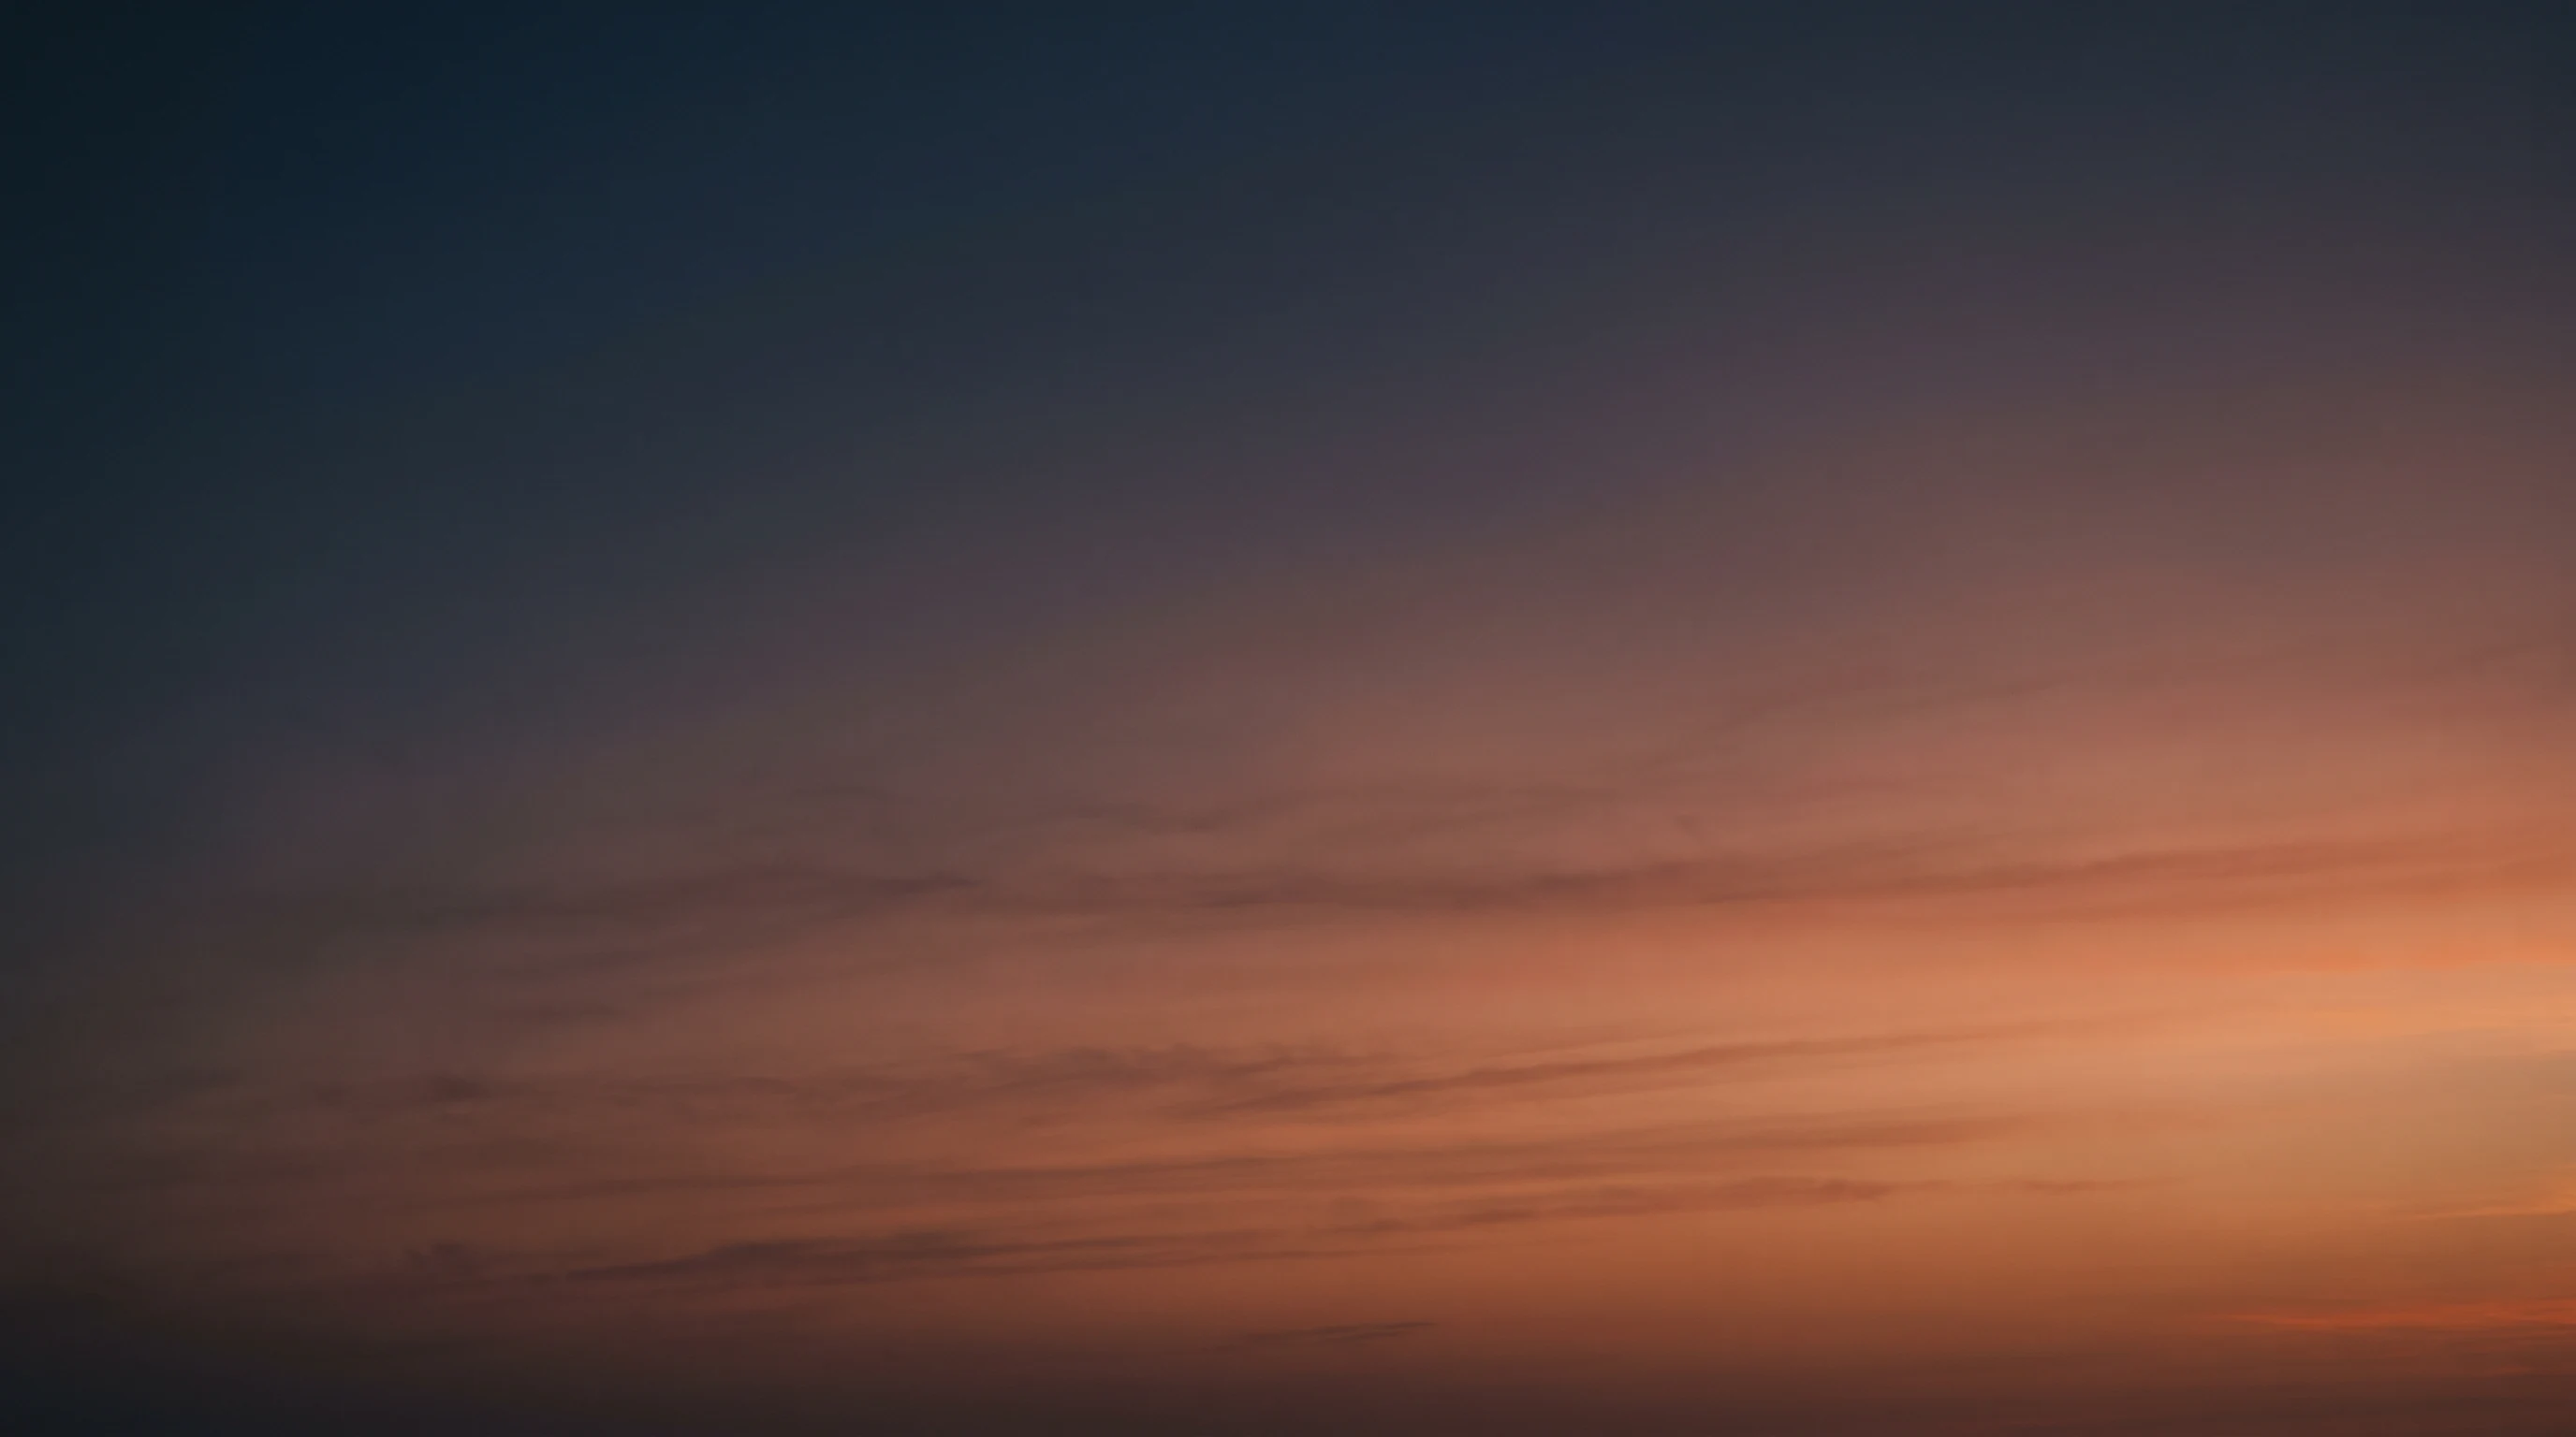
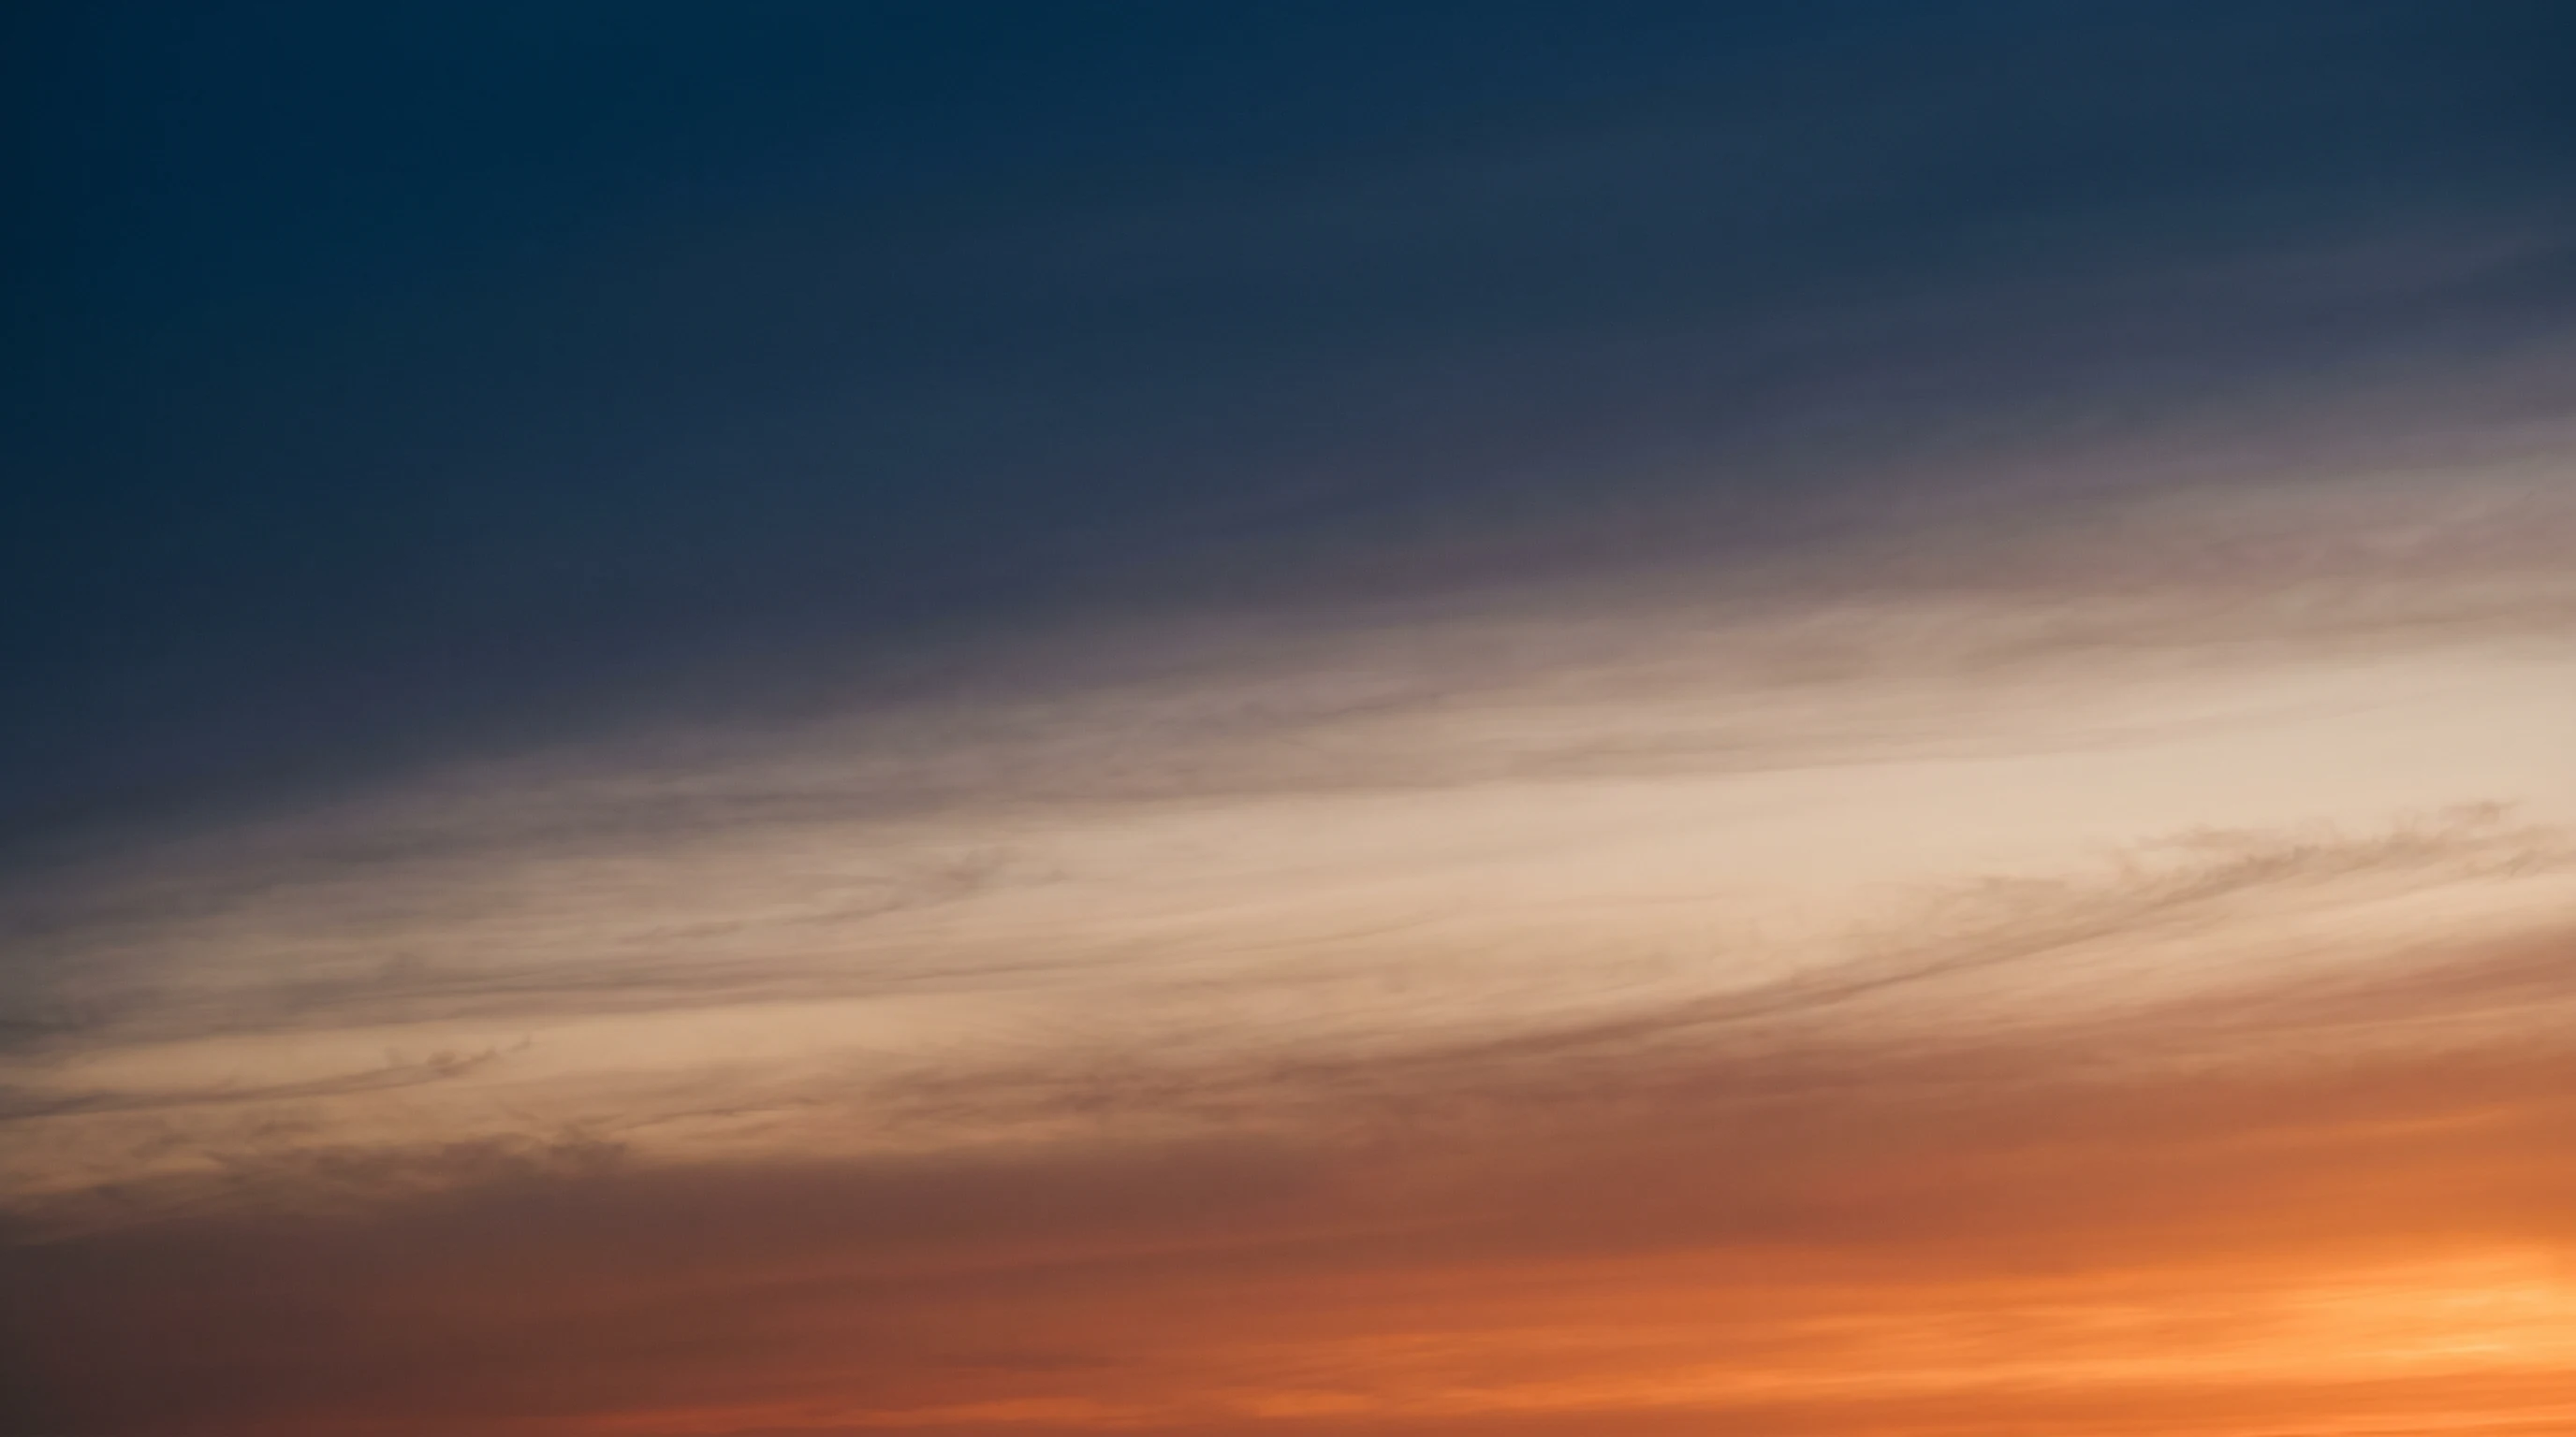
Founders: regenerate both backdrops on the client's notes
Two corrections came back on the backdrops.

The architectural one showed the building's own edge: a flat wall plane in
the upper left and a diagonal where the run of fins ended against it, which
made it read as a photograph of a building rather than as a pattern. The
replacement is cropped entirely inside the surface — the fins run out past
all four edges, so there is no corner, no roofline, no wall behind them and
no end to the run anywhere in frame. Its navbar corner falls on the
brightest fins, so a short scrim is drawn under the top band.

The darker sky went pale steel blue across the top. The replacement holds
deep navy up there and comes down through a wide band of latte into the
terracotta that sits behind the ridge, with every transition long enough
that no line forms.

Both are still sky or surface only, and the Figma scene above them is
untouched. The default hero renders pixel for pixel as before.

Claude-Session: https://claude.ai/code/session_018U3DTCsgpei34pmikanfph

diff --git a/styles.css b/styles.css
@@ -10529,6 +10529,12 @@ a.contact-channels__value:focus-visible {
 .page--founders[data-hero="f"] .fnd-sky {
   background:
     linear-gradient(
+      180deg,
+      rgba(36, 22, 14, 0.4) 0%,
+      rgba(36, 22, 14, 0.12) 12%,
+      transparent 20%
+    ),
+    linear-gradient(
       100deg,
       rgba(238, 176, 140, 0.78) 0%,
       rgba(233, 156, 118, 0.52) 34%,
